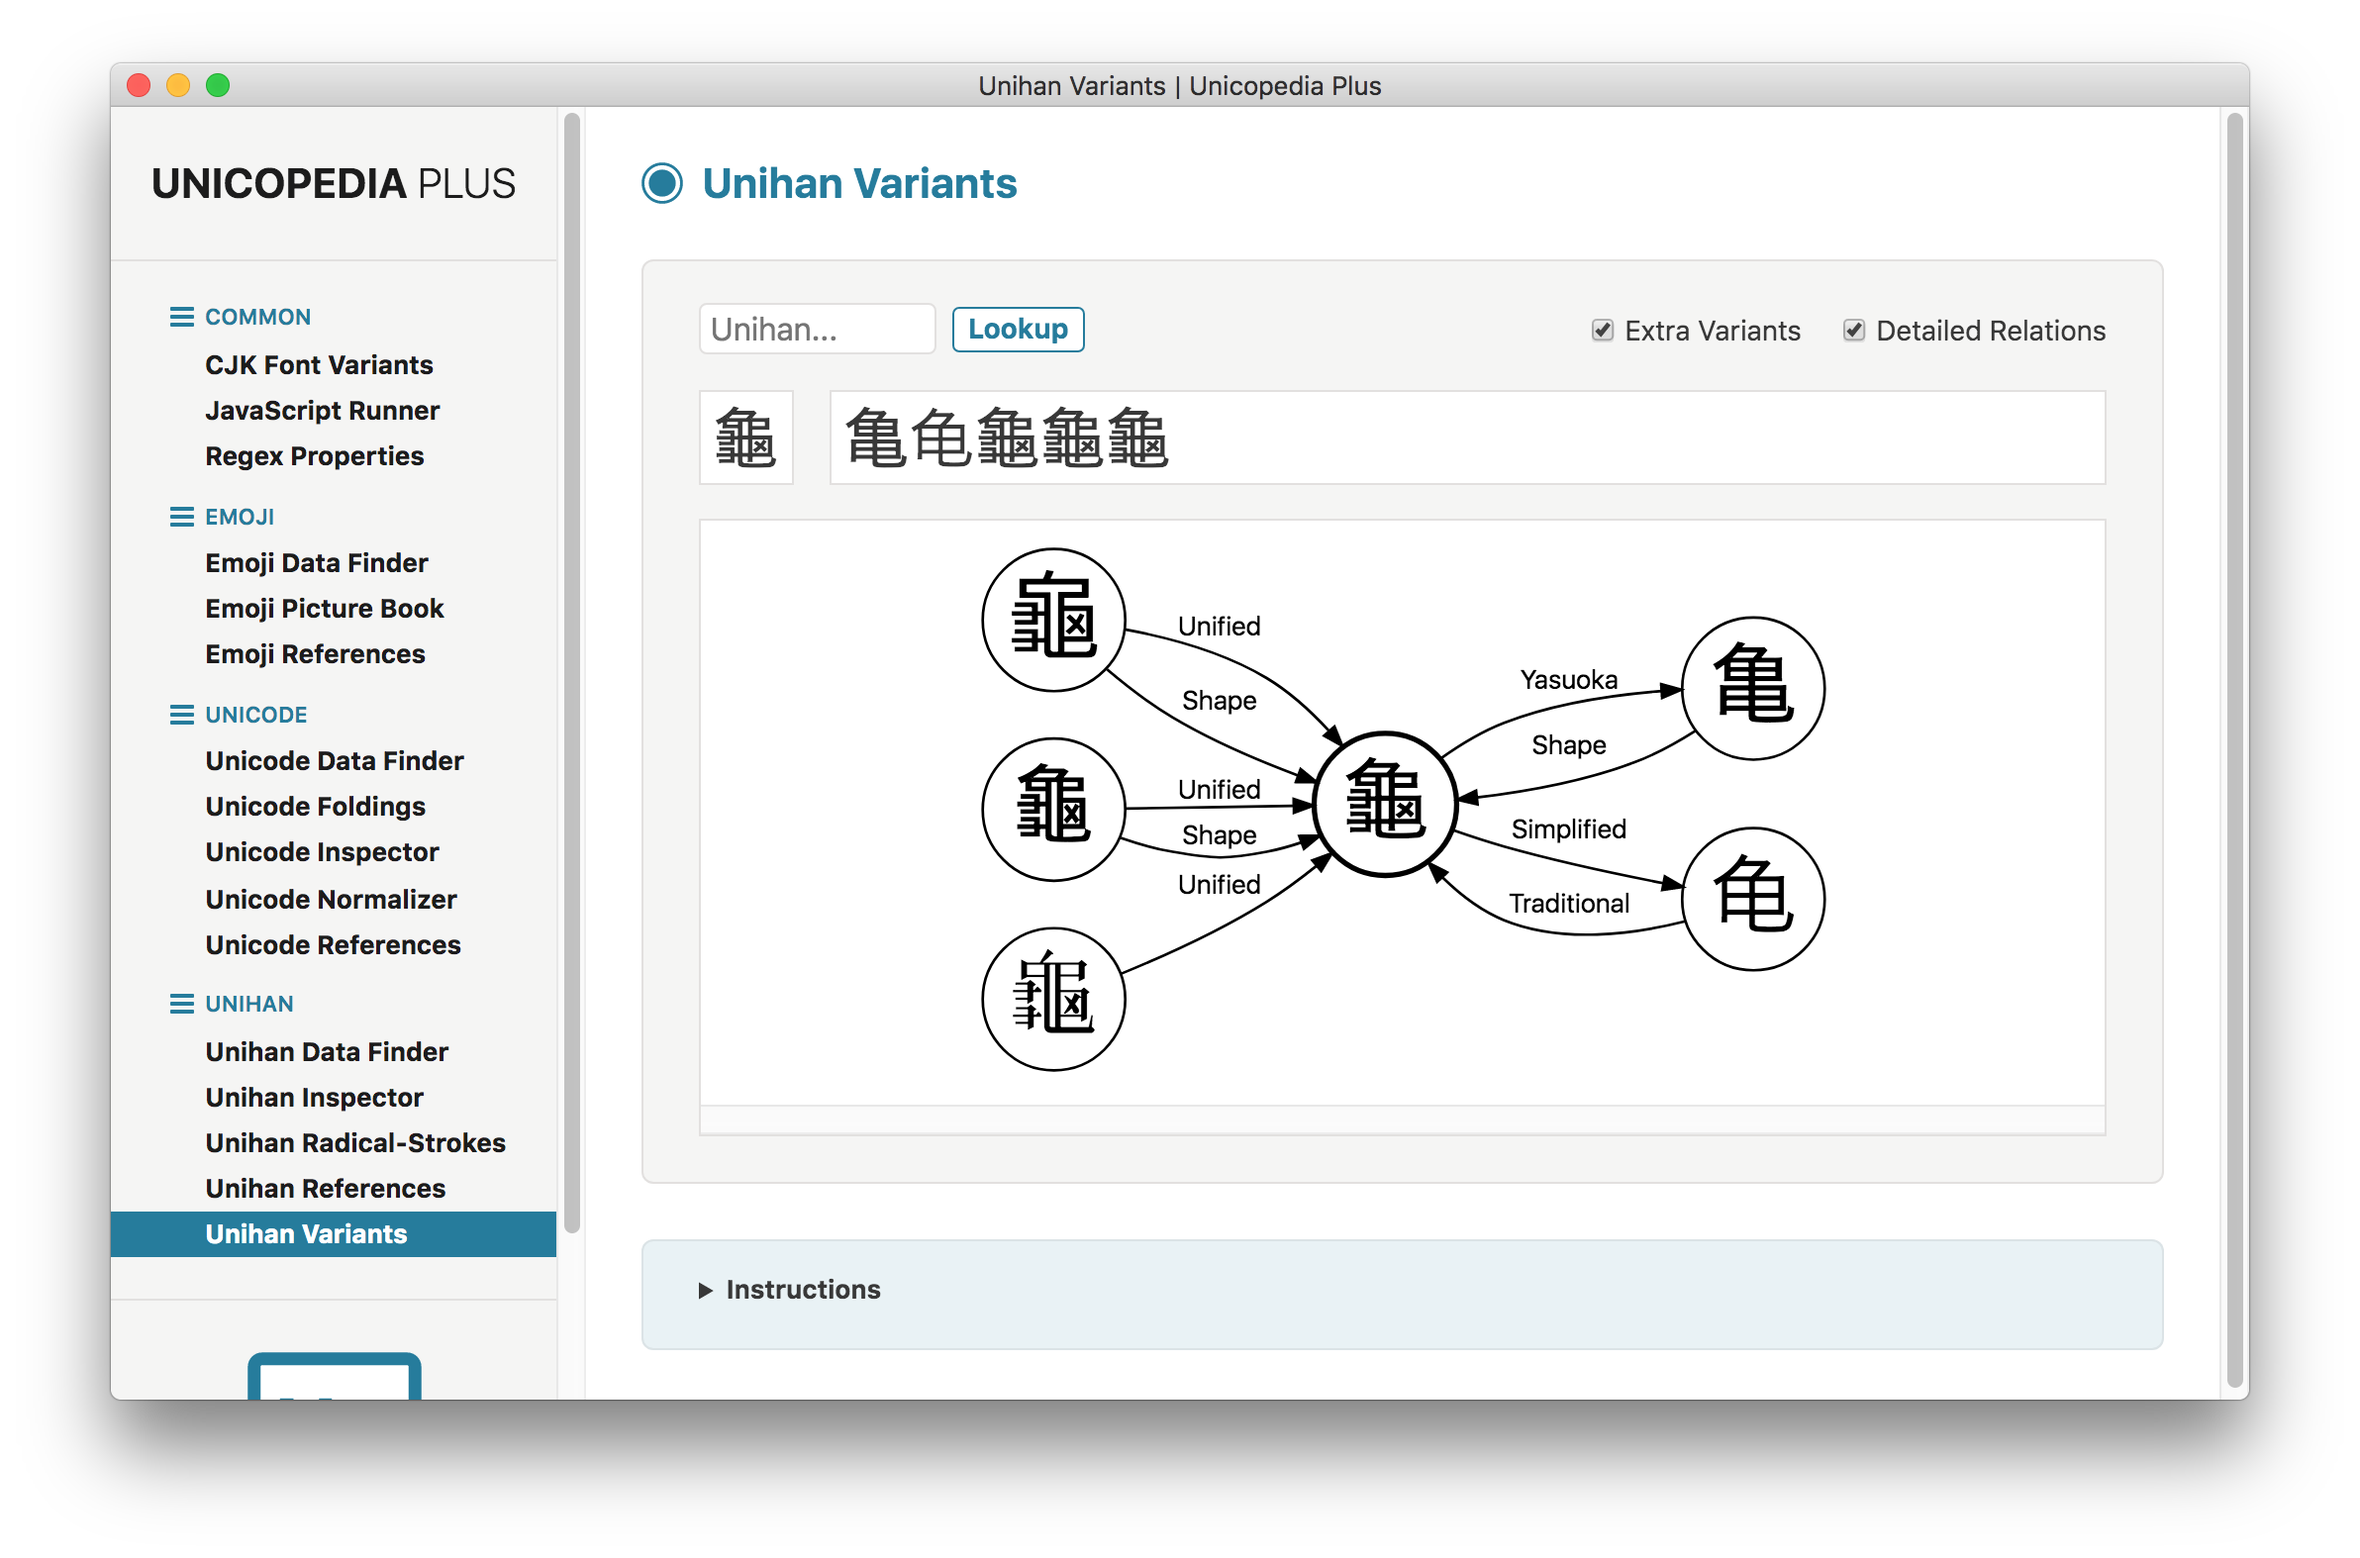
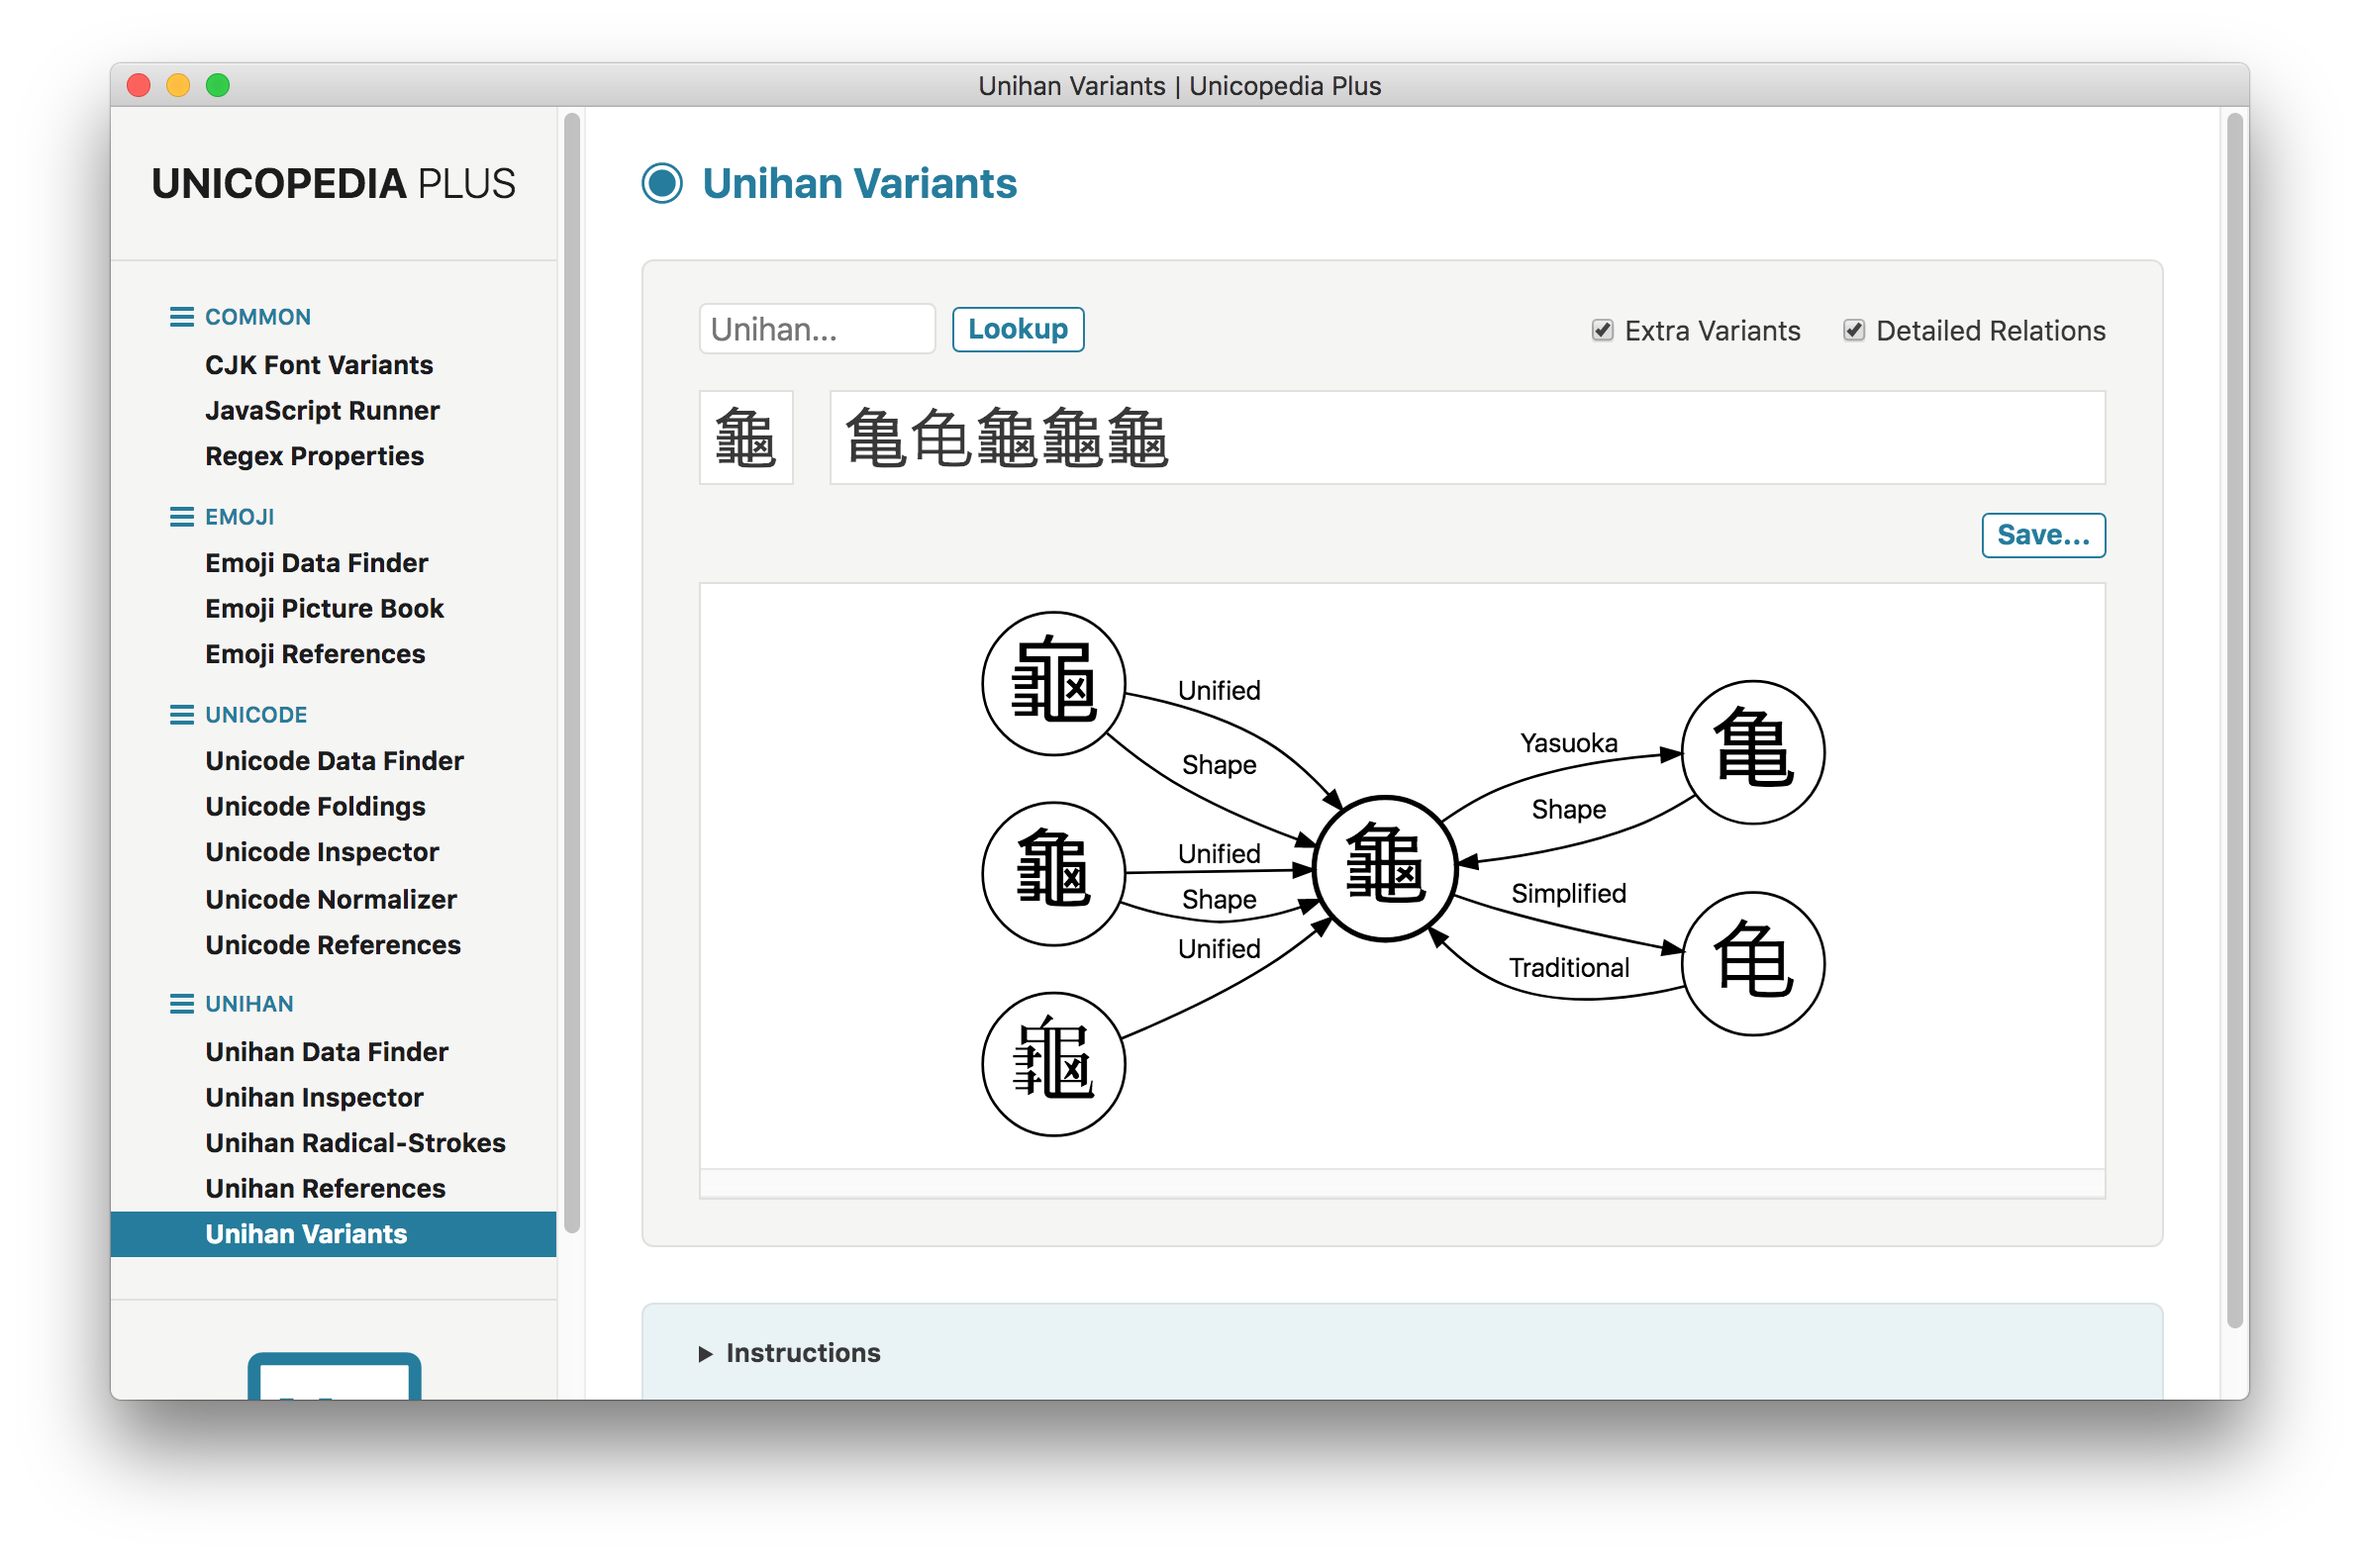
Updated app to 6.1.0

diff --git a/renderer/units/Unihan Variants/import.js b/renderer/units/Unihan Variants/import.js
@@ -7,6 +7,7 @@ const extraVariantsCheckbox = unit.querySelector ('.extra-variants-checkbox');
 const detailedRelationsCheckbox = unit.querySelector ('.detailed-relations-checkbox');
 const linearCharacter = unit.querySelector ('.linear-character');
 const linearVariants = unit.querySelector ('.linear-variants');
+const saveSVGButton = unit.querySelector ('.save-svg-button');
 const graphContainer = unit.querySelector ('.graph-container');
 //
 const instructions = unit.querySelector ('.instructions');
@@ -19,12 +20,16 @@ let unihanHistorySave = null;
 //
 let currentUnihanCharacter;
 //
+let defaultFolderPath;
+//
 module.exports.start = function (context)
 {
     const { remote } = require ('electron');
     //
     const fs = require ('fs');
     const path = require ('path');
+    //
+    const fileDialogs = require ('../../lib/file-dialogs.js');
     //
     // https://github.com/mdaines/viz.js/wiki/Usage
     // https://github.com/mdaines/viz.js/wiki/Caveats
@@ -46,6 +51,7 @@ module.exports.start = function (context)
         unihanCharacter: "",
         extraVariantsCheckbox: false,
         detailedRelationsCheckbox: false,
+        defaultFolderPath: context.defaultFolderPath,
         instructions: true
     };
     let prefs = context.getPrefs (defaultPrefs);
@@ -245,8 +251,12 @@ module.exports.start = function (context)
         'kYasuokaVariant': " Yasuoka "
     };
     //
+    let svgResult;
+    //
     function displayData (character)
     {
+        svgResult = "";
+        saveSVGButton.disabled = true;
         // linearCharacter.textContent = "";
         while (linearCharacter.firstChild)
         {
@@ -380,7 +390,15 @@ module.exports.start = function (context)
                     .replace ('{{data}}', data),
                     { engine: 'dot', format: 'svg' }
                 )
-                .then (result => { graphContainer.innerHTML = result; });
+                .then
+                (
+                    result =>
+                    {
+                        svgResult = result;
+                        graphContainer.innerHTML = svgResult;
+                        saveSVGButton.disabled = false;
+                    }
+                );
             }
             catch (e)
             {
@@ -449,6 +467,27 @@ module.exports.start = function (context)
     currentUnihanCharacter = prefs.unihanCharacter;
     updateUnihanData (currentUnihanCharacter);
     //
+    defaultFolderPath = prefs.defaultFolderPath;
+    //
+    saveSVGButton.addEventListener
+    (
+        'click',
+        (event) =>
+        {
+            fileDialogs.saveTextFile
+            (
+                "Save SVG file:",
+                [ { name: "SVG File (*.svg)", extensions: [ 'svg' ] } ],
+                path.join (defaultFolderPath, `${currentUnihanCharacter}-Variants.svg`),
+                (filePath) =>
+                {
+                    defaultFolderPath = path.dirname (filePath);
+                    return svgResult;
+                }
+            );
+        }
+    );
+    //
     instructions.open = prefs.instructions;
 };
 //
@@ -460,6 +499,7 @@ module.exports.stop = function (context)
         unihanCharacter: currentUnihanCharacter,
         extraVariantsCheckbox: extraVariantsCheckbox.checked,
         detailedRelationsCheckbox: detailedRelationsCheckbox.checked,
+        defaultFolderPath: defaultFolderPath,
         instructions: instructions.open
     };
     context.setPrefs (prefs);

diff --git a/renderer/units/Unihan Variants/import.html b/renderer/units/Unihan Variants/import.html
@@ -14,6 +14,11 @@
             <div class="linear-character"></div>
             <div class="linear-variants"></div>
         </div>
+        <div class="options">
+            <span class="action">
+                <button class="save-svg-button" type="button">Save...</button>
+            </span>
+        </div>
         <div class="graph-rendering">
             <div class="graph-container"></div>
         </div>
@@ -29,13 +34,21 @@
                 <li>Click the <kbd>Detailed Relations</kbd> checkbox to make use of a directed labeled graph to display variant relations; otherwise, a basic undirected graph is used instead.</li>
                 <li>The different variant relations are indicated using the following labels:
                     <ul>
-                        <li><code>Unified</code>: characters listed under the <em>kCompatibilityVariant</em> Unihan tag</li>
                         <li><code>Semantic</code>: characters listed under the <em>kSemanticVariant</em> Unihan tag</li>
-                        <li><code>Specialized</code>: characters listed under the <em>kSpecializedSemanticVariant</em> Unihan tag</li>
                         <li><code>Shape</code>: characters listed under the <em>kZVariant</em> Unihan tag</li>
                         <li><code>Simplified</code>: characters listed under the <em>kSimplifiedVariant</em> Unihan tag</li>
+                        <li><code>Specialized</code>: characters listed under the <em>kSpecializedSemanticVariant</em> Unihan tag</li>
                         <li><code>Traditional</code>: characters listed under the <em>kTraditionalVariant</em> Unihan tag</li>
+                        <li><code>Unified</code>: characters listed under the <em>kCompatibilityVariant</em> Unihan tag</li>
                         <li><code>Yasuoka</code>: characters drawn from the "Variants table for Unicode" data file <a title="http://kanji.zinbun.kyoto-u.ac.jp/~yasuoka/ftp/CJKtable/UniVariants.Z" href="http://kanji.zinbun.kyoto-u.ac.jp/~yasuoka/ftp/CJKtable/UniVariants.Z">UniVariants.txt</a> provided by Prof. <a title="http://kanji.zinbun.kyoto-u.ac.jp/~yasuoka/" href="http://kanji.zinbun.kyoto-u.ac.jp/~yasuoka/">Kōichi Yasuoka</a></li>
+                    </ul>
+                </li>
+                <li>Click the <kbd>Save...</kbd> button to save the current graph as a SVG file.</li>
+                <li>Notes:
+                    <ul>
+                        <li>Hovering over any circle of the graph displays a tooltip with basic additional information about its Unihan character: code point, age, ideograph status.</li>
+                        <li>The currently looked up Unihan character appears in a bolder circle, and it is possible to "navigate" to another variant by clicking on its circled node.</li>
+                        <li>In order to avoid visual clutter, any relation between two Unihan characters obtained from the Yasuoka variants is not displayed if another "standard" one already exists.</li>
                     </ul>
                 </li>
             </ul>

diff --git a/renderer/units/Unihan Variants/import.css b/renderer/units/Unihan Variants/import.css
@@ -59,7 +59,7 @@
 {
     display: flex;
     align-items: center;
-    margin: 1.25em 0;
+    margin: 1.25em 0 1em 0;
 }
 
 #unihan-variants-unit .linear-character,
@@ -89,6 +89,13 @@
     margin-left: 0.5em;
     white-space: nowrap;
     overflow: hidden;
+}
+
+#unihan-variants-unit .options
+{
+    display: flex;
+    justify-content: flex-end;
+    align-items: center;
 }
 
 #unihan-variants-unit .graph-rendering

diff --git a/README.md b/README.md
@@ -416,13 +416,18 @@ The following utilities are currently available:
 - Click the <kbd>Extra Variants</kbd> checkbox to include the Yasuoka variants as well; otherwise, only the standard Unihan variants are listed.
 - Click the <kbd>Detailed Relations</kbd> checkbox to make use of a directed labeled graph to display variant relations; otherwise, a basic undirected graph is used instead.
 - The different variant relations are indicated using the following labels:
-    - `Unified`: characters listed under the *kCompatibilityVariant* Unihan tag
     - `Semantic`: characters listed under the *kSemanticVariant* Unihan tag
-    - `Specialized`: characters listed under the *kSpecializedSemanticVariant* Unihan tag
     - `Shape`: characters listed under the *kZVariant* Unihan tag
     - `Simplified`: characters listed under the *kSimplifiedVariant* Unihan tag
+    - `Specialized`: characters listed under the *kSpecializedSemanticVariant* Unihan tag
     - `Traditional`: characters listed under the *kTraditionalVariant* Unihan tag
+    - `Unified`: characters listed under the *kCompatibilityVariant* Unihan tag
     - `Yasuoka`: characters drawn from the "Variants table for Unicode" data file <a title="http://kanji.zinbun.kyoto-u.ac.jp/~yasuoka/ftp/CJKtable/UniVariants.Z" href="http://kanji.zinbun.kyoto-u.ac.jp/~yasuoka/ftp/CJKtable/UniVariants.Z">UniVariants.txt</a> provided by Prof. <a title="http://kanji.zinbun.kyoto-u.ac.jp/~yasuoka/" href="http://kanji.zinbun.kyoto-u.ac.jp/~yasuoka/">Kōichi Yasuoka</a>
+- Click the <kbd>Save...</kbd> button to save the current graph as a SVG file.
+- Notes:
+    - Hovering over any circle of the graph displays a tooltip with basic additional information about its Unihan character: code point, age, ideograph status.
+    - The currently looked up Unihan character appears in a bolder circle, and it is possible to "navigate" to another variant by clicking on its circled node.
+    - In order to avoid visual clutter, any relation between two Unihan characters obtained from the Yasuoka variants is not displayed if another "standard" one already exists.
 
 <img src="screenshots/unihan-variants.png" width="1080px" alt="Unihan Variants screenshot">
 
